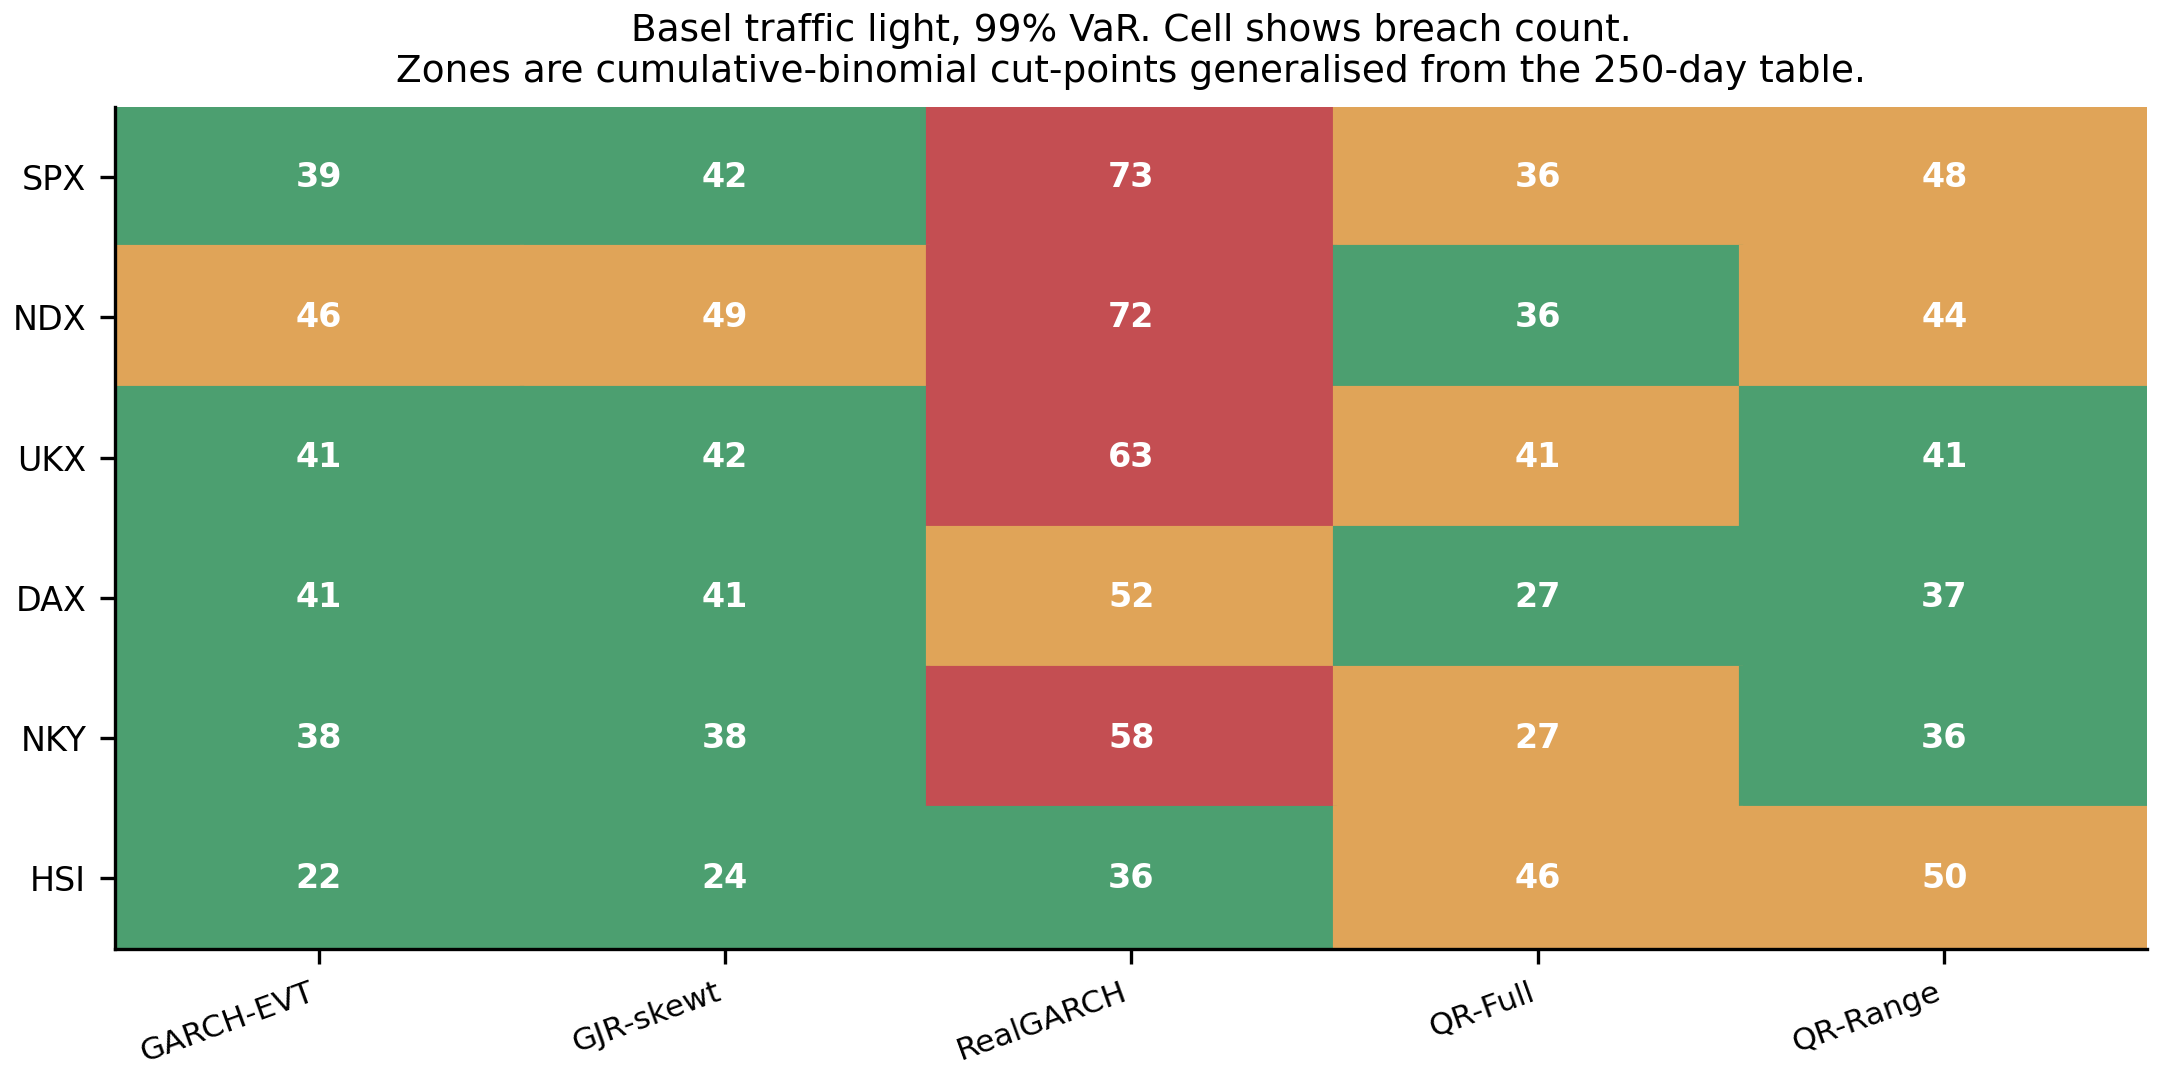
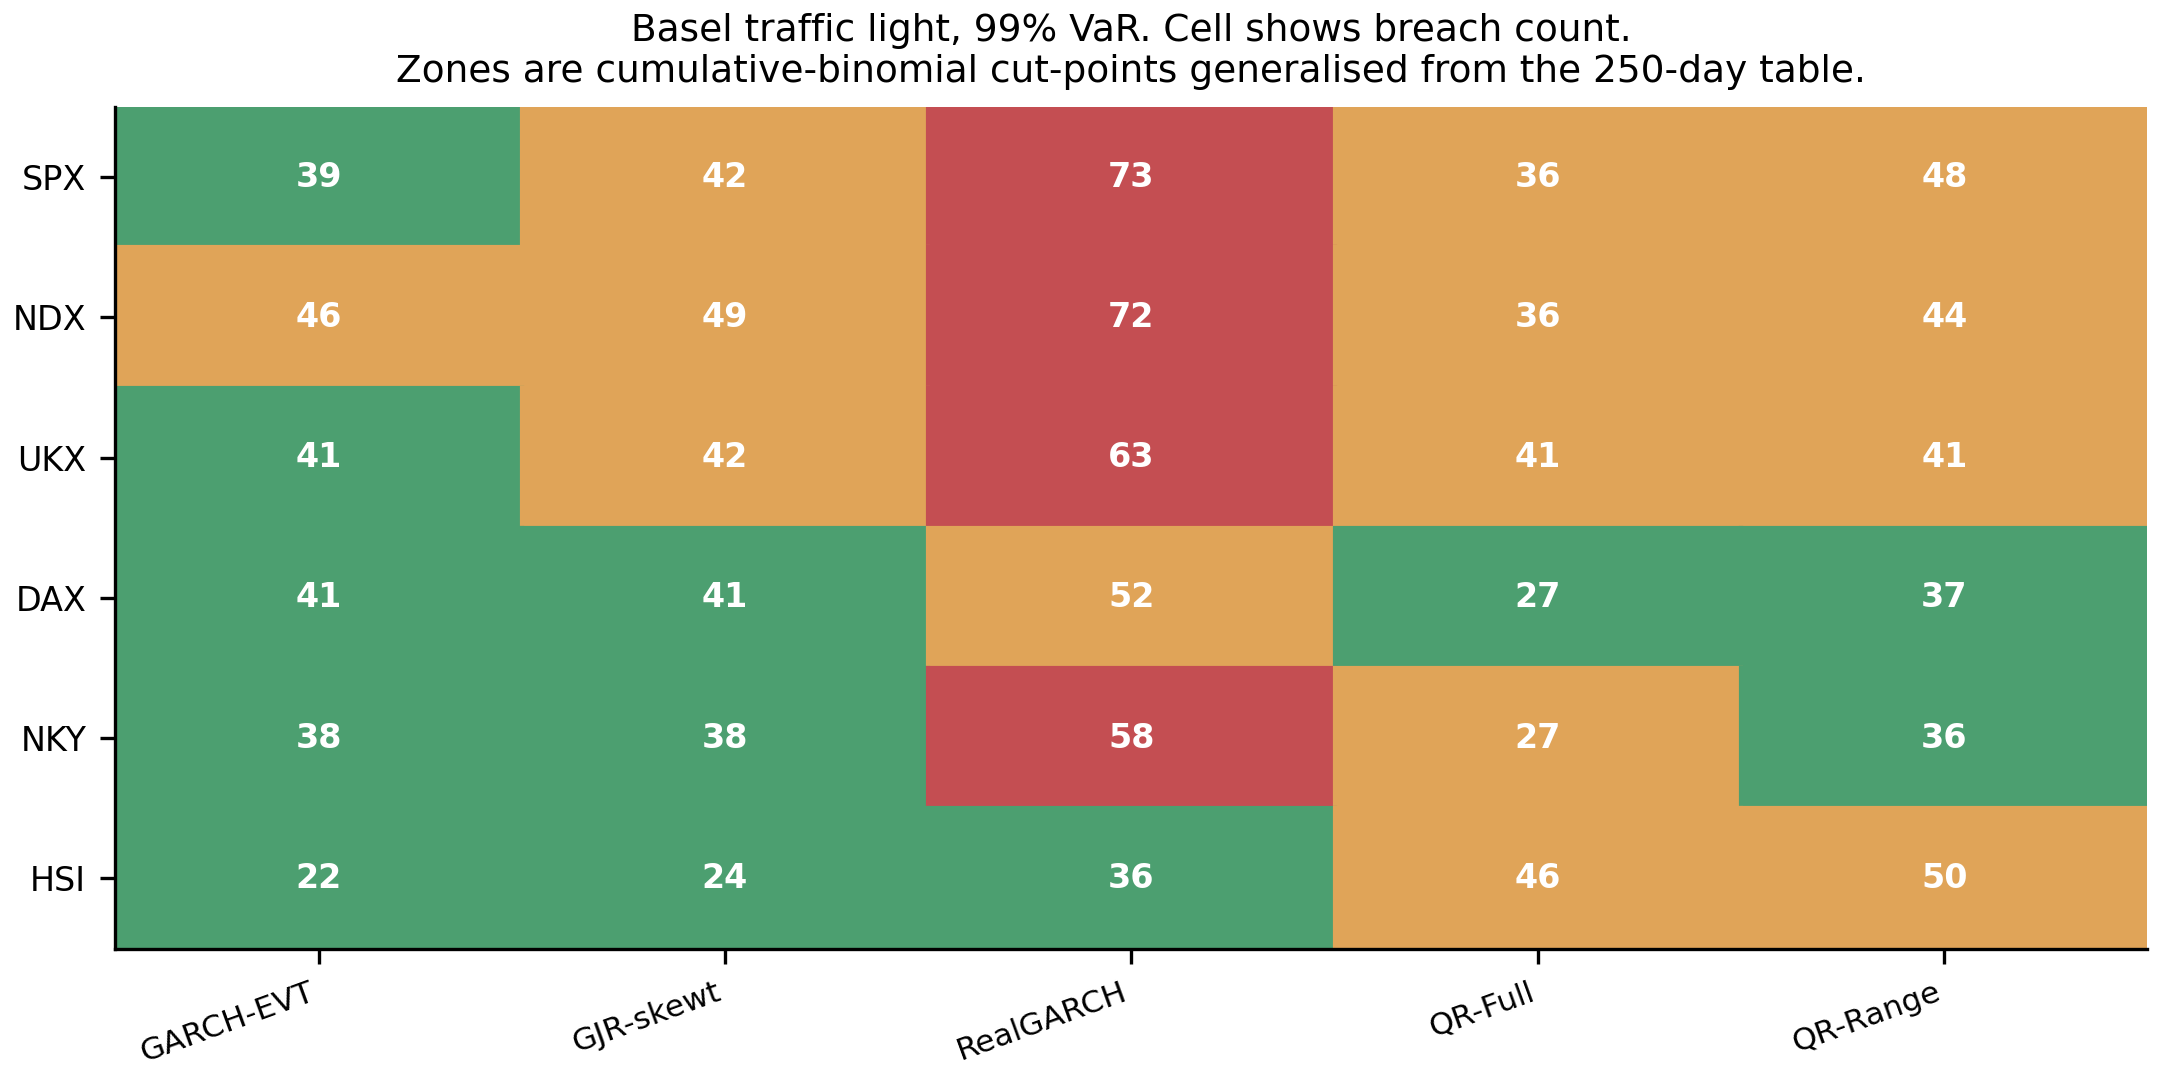
Fix off-by-one in Basel traffic-light zone boundary (review)
binom.cdf(n_breach - 1, ...) computed P(X < k) rather than P(X <= k), one
exception short, making the classifier systematically lenient by one breach at
every zone boundary.

Verified the corrected version reproduces the published 250-day Basel table
exactly: green 0-4, amber 5-9, red 10+. The old version misclassified k=5 as
green and k=10 as amber.

Four rows move green -> amber, as identified in review:
  SPX / GJR-skewt   (42 breaches / 3243)
  NDX / QR-Full     (36 / 2695)
  UKX / GJR-skewt   (42 / 3258)
  UKX / QR-Range    (41 / 3179)

49_basel.csv, 49_basel.png and the zone-count summary regenerated. MCS,
Diebold-Mariano and mean pinball loss are unaffected - they read different data.

Note the corrected table changes the interpretation: GARCH-EVT is now the only
model with 5 green zones (GJR-skewt drops from 5 to 3), so the bug was
understating the difference between them.

Changed region(s): [[0.5894, 0.2139, 1.0, 0.4889], [0.2171, 0.0917, 0.4343, 0.2444], [0.2171, 0.3361, 0.4343, 0.4889]]

diff --git a/Datasets/10_SCRIPTS/49_model_comparison.py b/Datasets/10_SCRIPTS/49_model_comparison.py
@@ -77,7 +77,7 @@ def basel_zone(n_breach, n_obs, alpha=ALPHA):
     below 95%, amber to 99.99%, red beyond. Stating it this way rather than
     hard-coding 4 and 9 keeps it valid at n = 3,243.
     """
-    p = stats.binom.cdf(n_breach - 1, n_obs, alpha)   # P(X < n_breach)
+    p = stats.binom.cdf(n_breach, n_obs, alpha)       # P(X <= n_breach)
     if p < 0.95:   return 'green'
     if p < 0.9999: return 'amber'
     return 'red'
